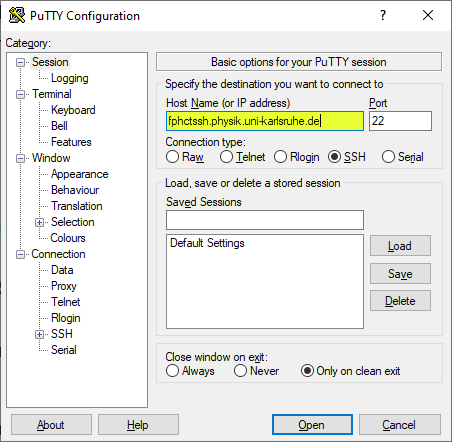
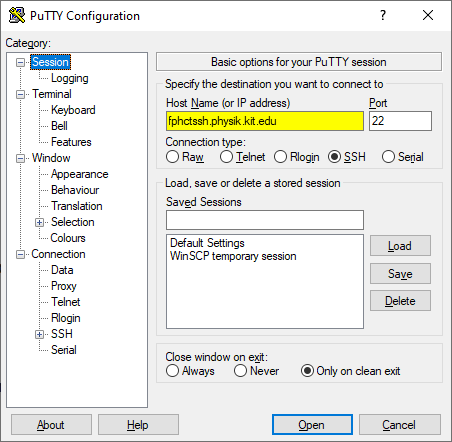
Pool: Bilder Windows angepasst

Changed region(s): [[0.3407, 0.2353, 0.8053, 0.2941], [0.3717, 0.5588, 0.6504, 0.5882], [0.0619, 0.1176, 0.1549, 0.1765]]

diff --git a/inhalt/physik-pool/Todo.md b/inhalt/physik-pool/Todo.md
@@ -1,5 +1,3 @@
 # Bilder, die aktualisiert werden müssen:
 
-*Windows 10: WinSCP
-*Windows 7 / 8: PuTTY (2 mal)
 *Mac Finder (2 mal)
